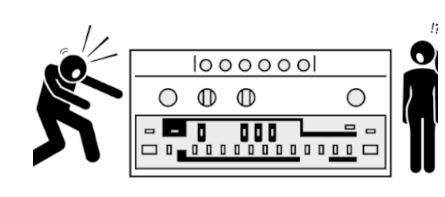
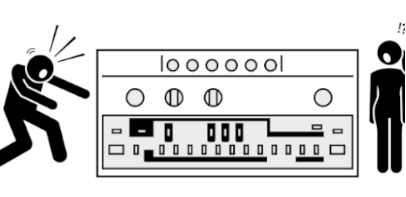
Instructions and home page styling

diff --git a/theSynthDoctor/public/stylesheets/style.css b/theSynthDoctor/public/stylesheets/style.css
@@ -24,11 +24,50 @@ body {
   height: 200px;
 }
 
-.img-menu{
-  height: 500px;
-  width: 500px;
-  border-radius: 10px;
-}
 .spacing{
-  padding-top: 40px;
+  padding-top: 60px;
+}
+
+.image-container-size {
+  width: 500px;
+  margin: 20px;
+}
+
+.image-container {
+  position: relative;
+  display: inline-block;
+}
+
+.image-container::before {
+  content: "";
+  position: absolute;
+  top: 0;
+  left: 0;
+  width: 100%;
+  height: 100%;
+  background: #16161695; /* Set the initial color of the overlay */
+  opacity: 1; /* Set the initial opacity of the overlay */
+  transition: all 0.5s ease; /* Add a smooth transition effect */
+}
+
+.image-container:hover::before {
+  opacity: 0; /* Set the final opacity of the overlay */
+}
+.caption {
+  position: absolute;
+  bottom: 0;
+  left: 0;
+  width: 100%;
+  background-color: rgba(0, 0, 0, 0.7); /* set the background color and opacity of the caption */
+  color: #fff; /* set the font color of the caption */
+  font-size: 1.2rem; /* set the font size of the caption */
+  font-weight: bold; /* set the font weight of the caption */
+  padding: 10px; /* set the padding of the caption */
+  box-sizing: border-box; /* include the padding in the caption's width */
+  opacity: 0; /* set the initial opacity of the caption */
+  transition: all 0.5s ease; /* add a smooth transition effect */
+}
+
+.image-container:hover .caption {
+  opacity: 1; /* set the final opacity of the caption */
 }

diff --git a/theSynthDoctor/db/index.js b/theSynthDoctor/db/index.js
@@ -5,8 +5,7 @@ const mongoose = require("mongoose");
 // ℹ Sets the MongoDB URI for our app to have access to it.
 // If no env has been set, we dynamically set it to whatever the folder name was upon the creation of the app
 
-const MONGO_URI =
-  process.env.MONGODB_URI || "mongodb://127.0.0.1:27017/theSynthDoctor";
+const MONGO_URI = "mongodb+srv://thesynthdoctor:sjJGXqtRpPmTtPF6@thesynthdoctor.qbqgpox.mongodb.net/test";
 
 mongoose
   .connect(MONGO_URI)
